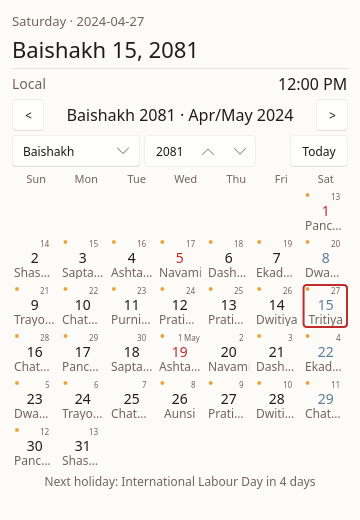
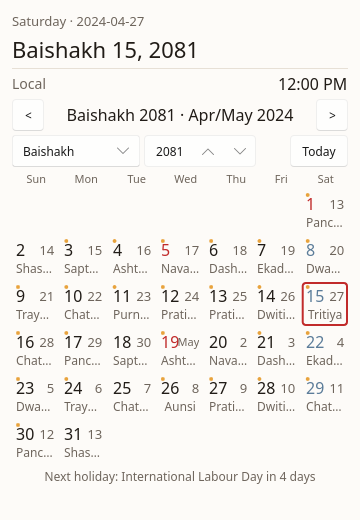
test(mitibar): W2R2-04 re-render the snapshots for the new cells
All 12 pinned images use the two-line cell and the top-aligned event list.
Add the max-events card for 2081-06-01 (9 events, tied with 2082-01-29).
All 13 are marked not verified.

diff --git a/docs/plan/PROGRESS.md b/docs/plan/PROGRESS.md
@@ -74,3 +74,4 @@ One row per task (hub `docs/handover.md` §3). Status is `done`, `blocked` (on w
 | W1R review | done | this commit | agent `xtask ci: all 23 steps passed` (not rerun: E: is short of space) | Reviewer checked: no `Mitibar`, `MITIBAR` or `miti-bar` anywhere outside the plan's own rule; no old window-class or crate identifier under `apps/`; one `APP_NAME` used by the tray tooltip and the Slint `AppInfo` global; the four regenerated popup snapshots render correctly (the title lives in the OS title bar, which the snapshot does not show). `deny.toml` ignores RUSTSEC-2026-0370 to 0372 with reasons: unmaintained (not vulnerable) crates in the Linux-only zbus chain under Slint 1.18; revisit when Slint updates. Accepted: the `.po` move in W1R-01 (the build needs it), the grep leftovers in finished plans and ADR-0017. Old `%LOCALAPPDATA%\nepdate-widget` folder is left, per ADR-0017 |
 | W2 checkpoint | ready for review | this commit | `xtask ci: all 23 steps passed` | Commits `16799c3` (W2-00), `ad9a145` (W2-01), `84462bb` (W2-04), `28cdcb5` (W2-02), `9d50024` (W2-03), `cb6bd6b` (W2-05), `cb5ecfb` (W2-06). W2-04 came before W2-02 because the grid's holiday line needs the search. 51 tests. Coverage (`cargo llvm-cov -p mitibar --all-features`, platform, theme, ui_bridge and main ignored): 99.00 % lines, 98.87 % regions over 804 lines. Month build 14.2 µs in a release run with `log::debug`, against the 16 ms target. 8 snapshots in `docs/plan/spike-results/w2/` (light/dark, en/ne, 1x/2x), **not verified**. A 6-row month (2081 Baishakh) and the day-detail card were checked only in local previews, not committed. Manual checklist notes added; keyboard, screen reader, copy buttons and the real taskbar interaction were not run. Doubtful: the year SpinBox stays ASCII in the Nepali UI (standard widget); the AD long date and AD month markers stay Latin by widget-design §4; long tithi names elide and start left in the cell |
 | W2 review fixes | ready for review | this commit | `xtask ci: all 23 steps passed` | Commits `1a3b33e` (W2R-01), `8d4479e` (W2R-02), `212b9cf` (W2R-03), `a6f1856` (W2R-04), this one (W2R-05). Popup 360×520 (WR-02 AC1); 44 px cells with an AD superscript line, a BS line and a tithi line, 3 px row gaps; selector row 128/112 px pickers. Saturday and public holiday are separate flags and the holiday colour wins. AD marker on every 1st. 12 snapshots in `docs/plan/spike-results/w2/` with `--today` pinned (8 month, 2 six-row Baishakh 2081, 2 day detail), **not verified**. No BS month in 1901..2199 starts on an AD 1st (start days 10..20), so the reviewed first-cell branch was unreachable; the rule is position-independent and the test records the data fact. The AD superscript stays 8 px and long tithi names still elide |
+| W2 second review | ready for review | this commit | `xtask ci: all 23 steps passed` | Commits `1fd7eaa` (W2R2-01), `4ed27bb` (W2R2-02), `b300920` (W2R2-03), this one (W2R2-04). Cells are 44 px high with 4 px padding and a 2 px grid gap; line 1 has the BS day (16 px) at the left and the AD day (13 px Latin, 12 px Devanagari) at the right, with the 11 px AD month replacing the day on a 1st; line 2 is the tithi (12 px). A 4 px gap left the "Nov" marker touching the numeral at 1x, so the gap is 2 px. Measured glyph boxes: BS "15" ends x=32 and "Nov" starts x=35 in the 1x English image (2 px clear), 3 logical px in the 2x Nepali image; the today ring keeps 2 px from the right/bottom glyphs at 1x and 2 to 2.5 px at 2x. The event list sits at the top with 2 px spacing; the max is 9 events on 2081-06-01 and 2082-01-29, and a 1-event check used 2081-01-03. 13 snapshots (12 re-rendered plus the max-events detail), **not verified**. AC2 and AC3 reworded; the 32-day claim is gone |

diff --git a/docs/plan/spike-results/w2/README.md b/docs/plan/spike-results/w2/README.md
@@ -5,7 +5,9 @@ Generated on Windows 11 with the MSVC toolchain on 2026-10-18. Each PNG is the p
 `SLINT_SCALE_FACTOR=1` or `2`. `--today` pins the calendar date and the clock to 12:00, so
 re-rendering an image does not change it. The eight month grids show Kartik 2083 (`--today
 2083-07-01`); the six-row pair shows Baishakh 2081 (`--today 2081-01-15`); the detail pair shows
-Baishakh 1, 2081, a Saturday and a public holiday (`--today 2081-01-01 --detail 2081-01-01`).
+Baishakh 1, 2081, a Saturday and a public holiday (`--today 2081-01-01 --detail 2081-01-01`); the
+max-events card shows Ashoj 1, 2081 (`--today 2081-06-01 --detail 2081-06-01`), the day with nine
+events.
 
 `--today` and `--detail` exist only in the `snapshot` feature, and the parser rejects them without
 `--popup --snapshot`, so the normal app can never pin its date.
@@ -24,16 +26,20 @@ The agent cannot judge the images, so every verdict is **not verified**: the rev
 | `month-grid-dark-ne-2x.png` | dark theme, Nepali, 200 % | not verified |
 | `month-grid-6row-light-en-1x.png` | 6-row Baishakh 2081, light, English, 100 % | not verified |
 | `month-grid-6row-light-ne-2x.png` | 6-row Baishakh 2081, light, Nepali, 200 % | not verified |
-| `day-detail-light-en-1x.png` | day detail card, light, English, 100 % | not verified |
-| `day-detail-dark-ne-2x.png` | day detail card, dark, Nepali, 200 % | not verified |
+| `day-detail-light-en-1x.png` | day detail, 3 events, light, English, 100 % | not verified |
+| `day-detail-dark-ne-2x.png` | day detail, 3 events, dark, Nepali, 200 % | not verified |
+| `day-detail-max-light-en-1x.png` | day detail, 9 events, light, English, 100 % | not verified |
 
 Layout: a two-line header, the title row (previous / title / next), the month and year pickers plus
 Today, the Sunday-first weekday row, the 7-column grid, and the next-holiday line. The popup is
-360×520. Each cell is 44 px with an AD superscript line, the BS day and the tithi, so one row's
-tithi no longer touches the next row's numerals, and the today ring encloses the whole cell. The
-month picker is 128 px and the year 112 px, which keeps Today inside the 24 px margins in both
-languages.
+360×520. Each cell is 44 px high with 4 px padding and a 2 px grid gap: line 1 has the BS day
+(16 px) at the left and the AD day (13 px Latin, 12 px Devanagari) at the right, with the 11 px
+short AD month replacing the day on a 1st; line 2 is the tithi (12 px). The 2 px gap is narrower
+than the 4 px grid because a 4 px gap left the "Nov" marker touching the numeral at 1x. The today
+ring is 2 px and keeps 2 px clear of the glyphs. The month picker is 128 px and the year 112 px,
+which keeps Today inside the 24 px margins in both languages.
 
-The day detail is an inline card over a scrim, not a new window. The pair shows the BS and AD long
-dates, weekday, tithi, the public-holiday badge and three events. The copy buttons and the Escape
-order were not run.
+The day detail is an inline card over a scrim, not a new window. The cards show the BS and AD long
+dates, weekday, tithi, the public-holiday badge and the event list. The event items sit at the top
+with 2 px spacing and the list scrolls inside its 120 px box only when it is taller; the max card
+shows nine events. The copy buttons and the Escape order were not run.

diff --git a/docs/runbooks/widget-manual-test.md b/docs/runbooks/widget-manual-test.md
@@ -3,7 +3,7 @@
 Copy this file per release/OS and tick. OS: Windows 11 Home Version: (agent run) Tester: agent Date: 2026-10-15
 
 W2 agent run 2026-10-18: unit tests and the `--popup --snapshot` tool at 1x/2x, light/dark and
-en/ne, with `--today` pinning the date and the clock to 12:00. 12 snapshots are in
+en/ne, with `--today` pinning the date and the clock to 12:00. 13 snapshots are in
 `docs/plan/spike-results/w2/`. No UI click, keyboard or screen-reader run was made; those lines
 stay unticked.
 
@@ -21,11 +21,12 @@ stay unticked.
 - [x] AC4 Light/dark/system themes; Devanagari renders per `docs/plan/devanagari-test-strings.md` (light+dark and en+ne popup snapshots in `docs/plan/spike-results/w1/`)
 
 ## Month grid (WR-03) / Day detail (WR-04)
-- [x] Grid shape, AD numbers, today outline, Saturday/holiday tint, 44 px rows (unit tests `wr03_ac1_rows` to `wr03_ac3_saturday_and_holiday_tint`; 12 snapshots in `docs/plan/spike-results/w2/`, not verified)
+- [x] Grid shape, AD numbers, today outline, Saturday/holiday tint, 44 px rows and a 2 px gap (unit tests `wr03_ac1_rows` to `wr03_ac3_saturday_and_holiday_tint`; 13 snapshots in `docs/plan/spike-results/w2/`, not verified)
 - [x] Tithi + event dots in 2081; nothing shown (no error) in 2090 (unit test `wr03_ac4_no_event_data_outside_coverage`; the month snapshots show 2083, the 6-row pair 2081, not verified)
 - [ ] Prev/next/today/pickers/wheel; disabled at 1901-01 and 2199-12 (model and `step_month` unit tests pass; the controls were not clicked)
 - [x] Next-holiday line (the snapshots show `Next holiday: Tula Sankranti today`; unit tests `wr03_ac8_*`; not verified)
-- [x] Day detail content (snapshots `day-detail-light-en-1x.png` and `day-detail-dark-ne-2x.png`, not verified)
+- [x] Day detail content (snapshots `day-detail-light-en-1x.png`, `day-detail-dark-ne-2x.png` and `day-detail-max-light-en-1x.png`, not verified)
+- [x] Event list top-aligned with 2 px spacing; scrolls at 9 events (the max card has 9 events; a 1-event check was rendered, not verified)
 - [ ] Day detail copy buttons; Escape order (the card rendered, but the buttons and the Escape order were not run)
 
 ## Clock (WR-05)
